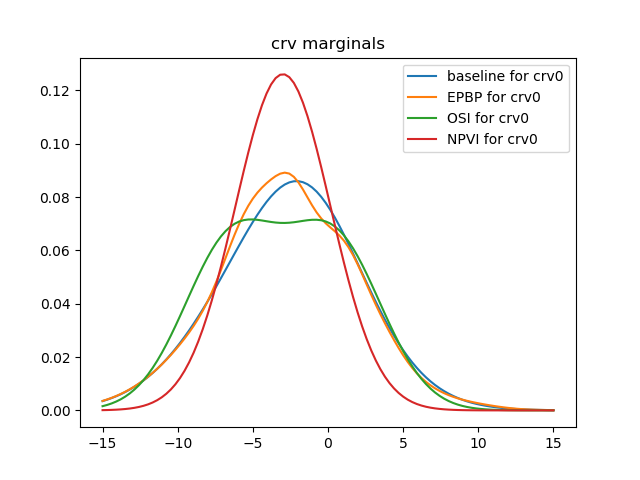
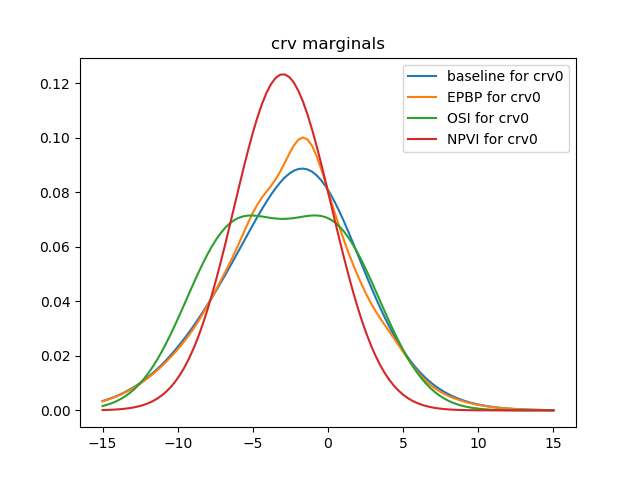
try num_paper = 3 and rerun hmln_citation_experiment; largely the same thing as before
baseline:
{'cpu_time': (0.0, 0.0),
 'kl_err': (0.0, 0.0),
 'mmap_err': (0.0, 0.0),
 'obj': (-18.3666773512823, 0.0),
 'wall_time': (0.0, 0.0)}
EPBP:
{'cpu_time': (3.491995678000002, 0.0),
 'kl_err': (0.003071081150463926, 0.0),
 'mmap_err': (0.11587947514382986, 0.0),
 'obj': (-1.0, 0.0),
 'wall_time': (3.492136240005493, 0.0)}
OSI:
{'cpu_time': (9.628661721, 0.0),
 'kl_err': (0.03607094900515386, 0.0),
 'mmap_err': (1.3735562930091088, 0.0),
 'obj': (-17.42639169505823, 0.0),
 'wall_time': (9.538041114807129, 0.0)}
NPVI:
{'cpu_time': (8.554244054999998, 0.0),
 'kl_err': (0.09687404456140351, 0.0),
 'mmap_err': (1.1266836644944842, 0.0),
 'obj': (-16.767546277796953, 0.0),
 'wall_time': (8.457860469818115, 0.0)}

diff --git a/osi/hmln_citation_experiment.py b/osi/hmln_citation_experiment.py
@@ -22,7 +22,7 @@ import sampling_utils
 
 from KLDivergence import kl_continuous_logpdf
 
-num_paper = 2
+num_paper = 3
 num_topic = 2
 
 Paper = []
